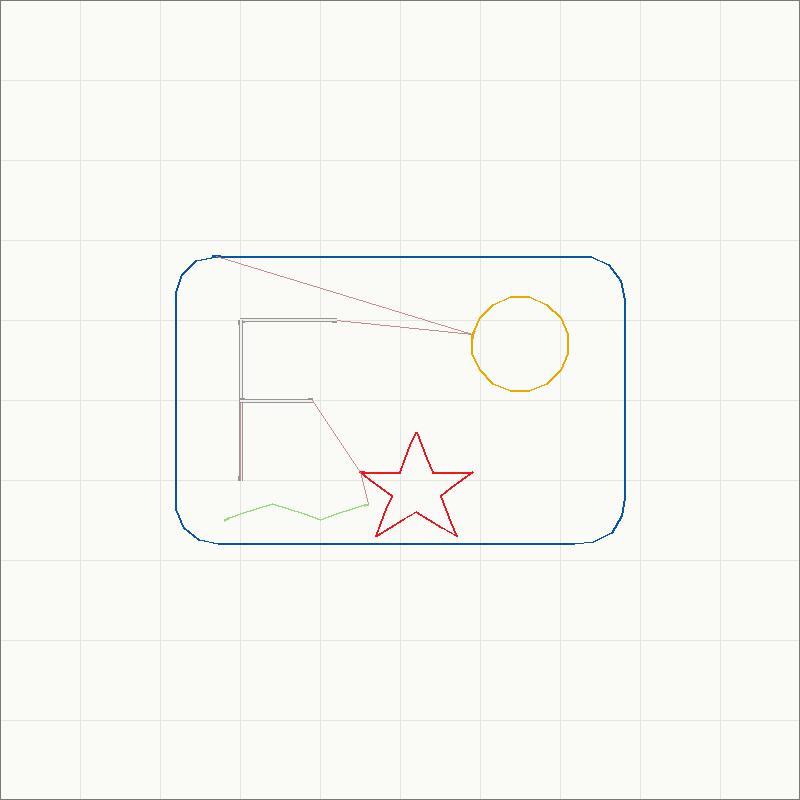
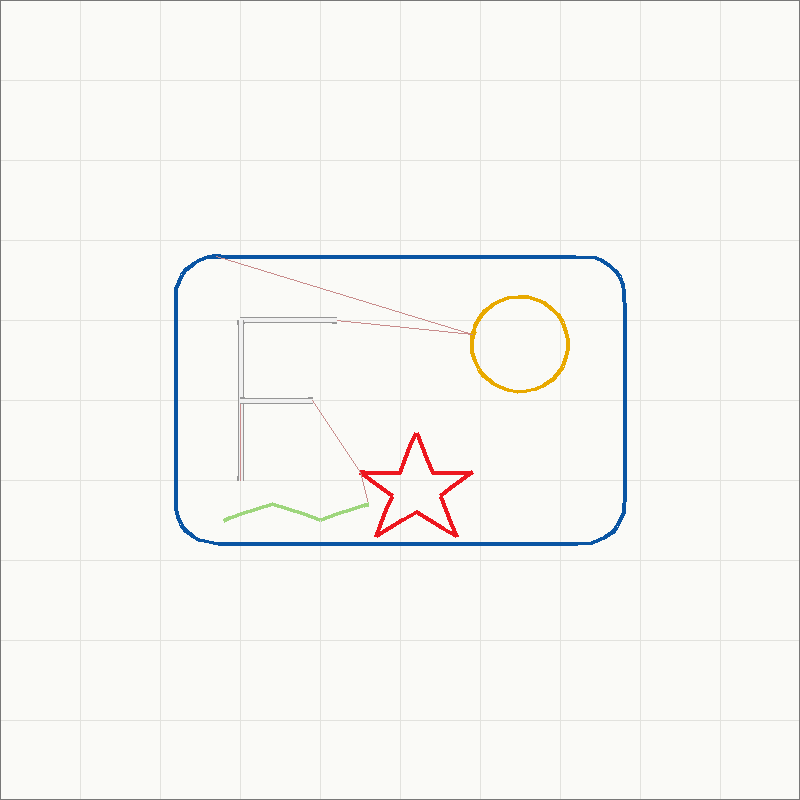
README for 0.2.0, regenerated sample_v2, Ctrl+Enter fix in the text dialog
- README: shorter stitches on curves, placeholder colours for DST/EXP,
  an 'If something goes wrong' section (log file, Help > Open log folder),
  future features ticked (CI, editing tests, installable package) with
  new open items, project layout updated for the new modules
- samples/sample_v2.pes and its preview regenerated with 0.2.0 (same PES
  version and colour slots; shorter stitches on the sun's curve).
  samples/sample.pes, the machine-tested file, is unchanged.
- Fix found by the end-to-end check of the .exe: Ctrl+Enter in the text
  dialog pressed OK but the text box also added a new line, leaving a
  stray empty second line. Regression test added.

diff --git a/tests/test_window.py b/tests/test_window.py
@@ -31,3 +31,19 @@ def test_settings_changes_mark_the_design_modified(app, tmp_path, monkeypatch):
     app.open(proj)                             # opening a project sets the settings ...
     assert not app.doc.dirty                       # ... but is not itself a change
     assert app.v_margin.get() == "4"
+
+
+def test_ctrl_enter_in_the_text_dialog_presses_ok_without_a_new_line(window):
+    from conftest import any_font
+    from svg2pes.dialogs import TextDialog
+    from svg2pes.text import TextSpec
+    name, path, idx = any_font()
+    window.deiconify()                      # key events only reach a window on screen
+    dlg = TextDialog(window, 1.0, TextSpec("", path, name, idx, 8), editing=False)
+    dlg.update()
+    dlg.t_text.insert("1.0", "Fly")
+    dlg.t_text.focus_force()
+    dlg.update()
+    dlg.t_text.event_generate("<Control-Return>")
+    window.update()
+    assert dlg.result is not None and dlg.result.text == "Fly"

diff --git a/svg2pes/dialogs.py b/svg2pes/dialogs.py
@@ -210,6 +210,8 @@ class TextDialog(tk.Toplevel):
         ttk.Button(b, text="OK", command=self._ok).pack(side="right", padx=6)
 
         self.t_text.bind("<KeyRelease>", lambda e: self._schedule())
+        # Ctrl+Enter means OK: stop the text box also treating it as Enter (a new line)
+        self.t_text.bind("<Control-Return>", lambda e: (self._ok(), "break")[1])
         self.c_font.bind("<KeyRelease>", self._filter)
         self.c_font.bind("<<ComboboxSelected>>", lambda e: self._schedule())
         for v in (self.v_height, self.v_spacing, self.v_align, self.v_arc, self.v_mono):

diff --git a/README.md b/README.md
@@ -17,6 +17,7 @@ and filled areas (tatami fill with underlay).
   installed font.
 - Pictures (PNG, JPEG, BMP, GIF), reduced to a few thread colours and traced into shapes.
 - Existing embroidery files (PES, DST, JEF, EXP, VP3), to view, simulate, move and recolour.
+  Files that carry no colours (DST, EXP) get distinct placeholder threads.
 - Illustrator's 72 dpi SVG exports are recognised and can be scaled to their intended size.
 
 **Threads**
@@ -26,7 +27,8 @@ and filled areas (tatami fill with underlay).
   twice for the same spool.
 
 **Stitches**
-- Run-stitch outlines with tie-in and tie-off stitches, and no stitch shorter than 0.4 mm.
+- Run-stitch outlines with tie-in and tie-off stitches, shorter stitches on tight curves (so
+  small circles sew round, not as polygons), and no stitch shorter than 0.4 mm.
 - Satin columns for borders, of any width from 0.5 to 8 mm, with a centre-walk underlay.
 - Fill (tatami) for closed shapes:
   - you choose the angle, density and stitch length
@@ -213,7 +215,7 @@ colour stop.
 1. Copy `samples/sample.pes` to a FAT32 USB stick. Use a short file name without spaces.
 2. Check that it loads, the size reads about 56 × 36 mm, and 5 colour stops appear.
    `samples/sample.pes` has been checked on a PE540D. `samples/sample_v2.pes` is the same design
-   made with the current code, with the sun in 214 Deep Gold.
+   made with version 0.2.0 (the sun in 214 Deep Gold, and shorter stitches on its curve).
 3. Sew a test on scrap fabric with stabiliser. If a file will not load, try PES version 6.
 
 **What has been checked on the machine so far:** a PES v1 file with run-stitch outlines
@@ -246,6 +248,13 @@ yet. Sew a test piece before using them on a real project.
 - **Time estimate:** it assumes the machine averages 85% of the speed you set, plus a minute
   per thread change. Real times vary.
 
+## If something goes wrong
+
+The window writes a log to `%LOCALAPPDATA%\svg2pes\svg2pes.log` (on macOS and Linux,
+`~/.svg2pes/svg2pes.log`): the files opened and saved, and the details of any unexpected
+error, which is also shown in a dialog. **Help → Open log folder** opens it; include the log
+when reporting a problem.
+
 ## Future features
 
 Finished items are ticked.
@@ -276,6 +285,7 @@ Finished items are ticked.
 - [x] **Hoop presets** and an **inches/mm** switch.
 - [x] **Spot the 72 dpi problem** in Illustrator exports.
 - [ ] **Edit points:** drag individual points of a shape.
+- [ ] **Remember the hoop and settings** between sessions (they are saved in projects now).
 - [ ] **Text along any path**, not only a circular arc.
 - [ ] **Picture tracing with smoothing controls** and the option to merge similar colours.
 
@@ -292,9 +302,12 @@ Finished items are ticked.
       stabiliser together while sewing.
 
 ### Project and packaging
-- [ ] **Automatic tests and builds:** GitHub Actions to run the tests and build the `.exe` on
-      every push.
-- [ ] **Tests for the window** (selection, arranging, undo) to go with the core tests.
+- [x] **Automatic tests and builds:** GitHub Actions runs the tests on every push and builds
+      the `.exe` on version tags.
+- [x] **Tests for editing** (arranging, groups, copy/paste, undo), through the `Document`
+      model with no window.
+- [x] **Installable package:** `pip install .` gives `svg2pes` and `svg2pes-gui` commands.
+- [ ] **Tests for mouse interaction** in the window (dragging, handles, box selection).
 - [ ] **Installer and code signing** for the Windows app, so SmartScreen doesn't warn.
 - [ ] **macOS and Linux builds.**
 
@@ -310,13 +323,19 @@ Finished items are ticked.
 | `svg2pes/stitching.py` | run stitches, tie stitches, colour blocks and sewing order |
 | `svg2pes/convert.py` | sizing, colour choices, stitch planning, time estimate, PES writing |
 | `svg2pes/text.py` | text with installed and single-line fonts, arcs, monograms |
-| `svg2pes/geometry.py` | move, resize and rotate transforms |
+| `svg2pes/geometry.py` | transforms and shared polyline helpers (simplify, smooth, ...) |
 | `svg2pes/project.py` | `.svg2pes` project files |
 | `svg2pes/preview.py` | the stitch preview (whole hoop or zoomed) and the sew-out |
-| `svg2pes/gui.py` | the Tkinter window |
+| `svg2pes/document.py` | the design being edited and every operation on it (no window) |
+| `svg2pes/gui.py` | the Tkinter window: draws the design and turns clicks into `Document` calls |
+| `svg2pes/dialogs.py` | the window's dialogs (threads, text, fill and outline, pictures) |
+| `svg2pes/log.py` | the log file |
 | `svg2pes/cli.py` | the command line |
 | `svg2pes/assets/` | app icon |
+| `pyproject.toml` | package metadata and dependencies |
 | `svg2pes.spec`, `build_exe.ps1`, `version_info.txt` | Windows .exe build |
+| `.github/workflows/ci.yml` | tests on every push, the `.exe` on version tags |
+| `CHANGELOG.md` | what changed in each version |
 
 ## Tests
 
